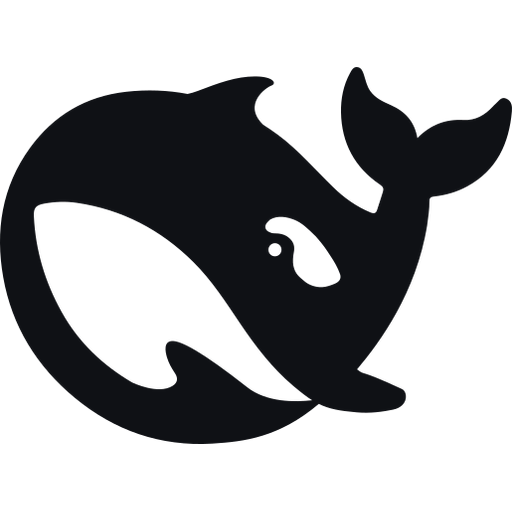
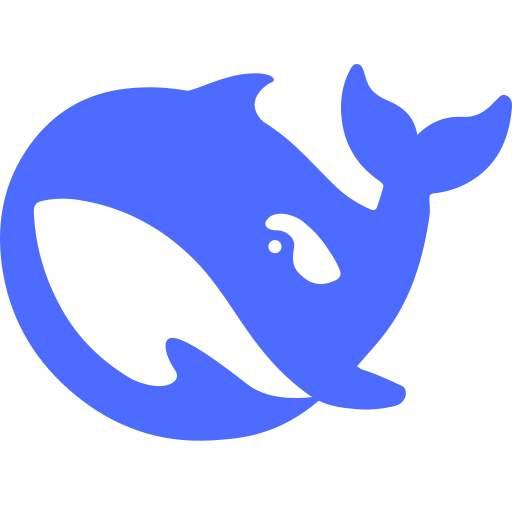
v1.0.6: 彩色 DeepSeek 鲸鱼图标统一托盘/任务栏/打包，移除深浅色切换逻辑

diff --git a/main.js b/main.js
@@ -4,7 +4,7 @@
 //                          DshServer.cs（服务生命周期） TcpPid.cs（端口→PID） Bridge.cs（命令桥）
 'use strict'
 
-const { app, BrowserWindow, WebContentsView, Tray, Menu, Notification, shell, ipcMain, nativeImage, nativeTheme, systemPreferences, clipboard, screen } = require('electron')
+const { app, BrowserWindow, WebContentsView, Tray, Menu, Notification, shell, ipcMain, nativeImage, nativeTheme, clipboard, screen } = require('electron')
 const path = require('path')
 const fs = require('fs')
 const os = require('os')
@@ -214,58 +214,20 @@ function resolveHarnessRoot() {
   return defaultHarnessRoot()
 }
 
-// ---------- 图标（深色系统主题自动切换为白色鲸鱼） ----------
-let IconNormal = null // 当前主题对应的正常图标
-let IconBlack = null
-let IconWhite = null
+// ---------- 图标（彩色 DeepSeek 鲸鱼，托盘/任务栏/打包图标统一，不再做深浅色切换） ----------
+let IconNormal = null
 let IconBlank = null
 
 function loadIcons() {
   if (IS_WIN) {
-    IconBlack = nativeImage.createFromPath(path.join(ASSETS_DIR, 'ds.ico'))
-    IconWhite = nativeImage.createFromPath(path.join(ASSETS_DIR, 'ds-white.ico'))
+    IconNormal = nativeImage.createFromPath(path.join(ASSETS_DIR, 'ds.ico'))
     IconBlank = nativeImage.createFromPath(path.join(ASSETS_DIR, 'blank.ico'))
   } else {
-    // macOS：模板图（黑色鲸鱼 + alpha），菜单栏自动适配深浅色，无需切换；Linux：按主题切换黑白 PNG
-    IconBlack = nativeImage.createFromPath(path.join(ASSETS_DIR, 'dsTemplate.png'))
-    IconWhite = nativeImage.createFromPath(path.join(ASSETS_DIR, 'dsWhiteTemplate.png'))
+    // macOS / Linux：彩色鲸鱼 PNG（不再用模板图，颜色以图为准）
+    IconNormal = nativeImage.createFromPath(path.join(ASSETS_DIR, 'dsTemplate.png'))
     IconBlank = nativeImage.createFromPath(path.join(ASSETS_DIR, 'blankTemplate.png'))
-    if (IS_MAC) {
-      if (IconBlack && !IconBlack.isEmpty()) IconBlack.setTemplateImage(true)
-      if (IconBlank && !IconBlank.isEmpty()) IconBlank.setTemplateImage(true)
-    }
   }
-  applyThemeIcon()
   if (!IconNormal || IconNormal.isEmpty()) log('tray icon missing: run `npm run build:assets` first')
-}
-
-// 系统真实深色主题（与"设置页主题"无关）：
-// 1) nativeTheme.shouldUseDarkColors 会受 themeSource（= 设置主题）影响，托盘 logo 必须跟随系统任务栏，不能用；
-// 2) systemPreferences.isDarkMode 在 Windows 上不可用（本机 Electron 34 实测为 undefined）且跟随"应用模式"而非任务栏；
-// 因此 Windows 直接读注册表 SystemUsesLightTheme（任务栏深浅的权威来源），macOS 用 isDarkMode，Linux 回退 shouldUseDarkColors。
-function isSystemDark() {
-  if (IS_WIN) {
-    try {
-      const out = execFileSync('reg', ['query', 'HKCU\\Software\\Microsoft\\Windows\\CurrentVersion\\Themes\\Personalize', '/v', 'SystemUsesLightTheme'], { windowsHide: true, timeout: 5000, encoding: 'utf8' })
-      const m = /SystemUsesLightTheme\s+REG_DWORD\s+0x([0-9a-fA-F]+)/.exec(String(out))
-      if (m) return parseInt(m[1], 16) === 0
-    } catch { /* 读不到时回退 */ }
-  }
-  if (IS_MAC) {
-    try { return systemPreferences.isDarkMode() } catch { /* noop */ }
-  }
-  return nativeTheme.shouldUseDarkColors
-}
-
-let lastSystemDark = null
-
-// 深色系统主题 → 白色鲸鱼；浅色 → 黑色鲸鱼（mac 模板图自动反色，保持原样）
-function applyThemeIcon() {
-  if (IS_MAC) { IconNormal = IconBlack; return }
-  const dark = isSystemDark()
-  lastSystemDark = dark
-  IconNormal = (dark && IconWhite && !IconWhite.isEmpty()) ? IconWhite : IconBlack
-  if (!flashOn) setTrayImage(IconNormal)
 }
 
 function setTrayImage(img) {
@@ -1191,9 +1153,6 @@ function onTick() {
   // 环境未就绪时周期性重测（缓存 30s 节流），用户在外部装好 Node/DSH 后自动就绪
   if (!envReady()) void refreshEnv(false)
   maybeStartDeferred() // 安装完成/启动请求时环境未就绪 → 就绪后自动补启动
-  // 系统任务栏主题轮询：Windows 切换系统深浅色不一定触发 nativeTheme 'updated'（它跟随应用模式），
-  // 2 秒一次轻量检测（读注册表），变化时实时换托盘 logo 颜色
-  if (isSystemDark() !== lastSystemDark) applyThemeIcon()
   // 接管的外部实例存活性探测
   if (server.adoptedPid) {
     portOpen().then((open) => {
@@ -1441,7 +1400,7 @@ async function runSelfTest() {
     }
     selftestPrint('READY ' + WEB_URL)
     selftestPrint('SYSTEM ZOOM ' + Config.zoom + ' (detected from OS)')
-    selftestPrint(`ICONS OK: black=${!IconBlack.isEmpty()} white=${!IconWhite.isEmpty()} blank=${!IconBlank.isEmpty()} darkTheme=${isSystemDark()}`)
+    selftestPrint(`ICONS OK: colored=${!IconNormal.isEmpty()} blank=${!IconBlank.isEmpty()}`)
     const [dw, dh] = defaultPanelSize()
     const [ww2, wh2] = defaultWebSize()
     const prim = screen.getPrimaryDisplay()
@@ -1562,7 +1521,6 @@ function init() {
   try { nativeTheme.themeSource = Config.theme } catch { /* noop */ }
   harnessRoot = resolveHarnessRoot()
   loadIcons()
-  nativeTheme.on('updated', applyThemeIcon) // 系统主题切换时实时换色（深色→白鲸鱼）
   fs.mkdirSync(LOG_DIR, { recursive: true })
   registerIpc()
   createWindow()

diff --git a/README.md b/README.md
@@ -119,7 +119,7 @@ npm run dist:win       # 打包 NSIS 安装包 → dist/dshl-<版本>.exe（--pu
 - **托盘闪烁不自动停**：通知触发的图标闪烁持续到点击托盘/打开窗口为止，不错过提醒。
 - `useSystemBrowser`（设置页"使用系统浏览器打开DSH"）：`false`（默认）时"打开 DeepSeek Harness"走托盘自管的独立窗口（复用同一个；点 ✕ 只隐藏到后台继续运行，托盘退出才真正关闭；服务就绪自动刷新错误页）；`true` 时交给系统默认浏览器。
 - 独立窗口右上角为 Edge 式**直角窗口按钮**（46px 宽、全高、贴窗缘无圆角、细线 SVG 图标）：**最小化 / 最大化·还原 / 关闭到托盘**（最大化状态图标实时切换）。
-- 主题设置（浅色/深色/跟随系统）同时驱动：**启动器面板原生标题栏颜色、独立窗口 tab 栏配色、托盘图标**（经 `nativeTheme.themeSource` 落地，页面内 `prefers-color-scheme` 一并跟随）。
+- 主题设置（浅色/深色/跟随系统）同时驱动：**启动器面板原生标题栏颜色、独立窗口 tab 栏配色**（经 `nativeTheme.themeSource` 落地，页面内 `prefers-color-scheme` 一并跟随）。
 - **"启用标签和内部分屏功能"**（设置页开关，默认关闭）：开启后独立窗口标题栏为完整形态（标签列表 + 新建 ＋、右侧 分屏 / 最小化 / 最大化 / 关闭）；关闭后标题栏只保留 **标题 + 最小化 / 最大化 / 关闭**，标签与分屏按钮及对应快捷键全部禁用（关闭瞬间自动退出分屏并只保留当前标签）。
 - 托盘交互：单击图标打开 DeepSeek Harness（独立窗口），右键菜单仅"显示启动器面板 / 打开 DeepSeek Harness / 退出"；启动时**服务运行成功后自动弹出一次** DeepSeek Harness（等价于点击"打开 DeepSeek Harness"按钮），启动器面板不自动打开。
 - 独立窗口是 **Edge 式原生分屏**：顶部 tab 栏（高度 42px：38px × 130% × 85% 取整；标签标题字体 12.6px、tab 横向长度最长 243px、直角矩形 Edge 外观；＋ 新建、× 关闭、点击切换、可拖动窗口），**"分屏"按钮位于最右侧（最小化按钮左侧）**，开启左右双视图（分隔条可拖拽，20%–80%；**单标签分屏自动复制当前页为右分屏，关闭任一侧即退出分屏并铺满**）；页面视图用 **WebContentsView 原生挂载**（与 Edge 同源的合成器方案，切换/分屏零闪烁，新标签后台预热无白屏）；快捷键 **Ctrl+\\** 分屏、**Ctrl+Del** 关闭聚焦侧、**Shift+Alt+S** 交换左右；**聚焦单个分屏时该侧右上角浮出 Edge 式控件**：✕ 关闭此分屏、⋯ 菜单（切换左右分屏 / 在新标签页中打开此网页——复制当前 URL 到新标签后关闭原分屏）；Ctrl+滚轮缩放对所有视图同步生效并显示中央浮层。
@@ -155,7 +155,7 @@ gh release create v1.0.5 dist/dshl-1.0.5.exe dist/latest.yml dist/dshl-1.0.5.exe
 ## 已知限制
 
 - Windows 开发模式（`npm start`）通知来源显示为 "Electron"；安装版显示产品名。
-- 托盘图标自适应系统主题：深色主题显示**白色鲸鱼**、浅色显示黑色，主题切换实时跟随（`nativeTheme`）。
+- 托盘 / 窗口任务栏 / 打包 exe 图标统一为**彩色 DeepSeek 鲸鱼**（`assets/deepseek-color.svg`，品牌蓝 #4D6BFE，由 `build:assets` 生成各尺寸），深浅色主题下都清晰，不再做黑白切换。
 - 安装包**未做代码签名**：Windows SmartScreen 可能提示"未知发布者"，点"更多信息 → 仍要运行"即可；正式对外分发建议配置代码签名证书（`build.win.certificateFile`）。
 - 首次切换到 Electron 版时，设置（缩放/主题/提醒）需重新点一次；旧 C# 版的"启动"文件夹自启快捷方式会被自动清除。
 - 随包插件 `assets/plugins/dsh-notify.mjs` 由 DSH 插件生态提供，与启动器一并分发。
